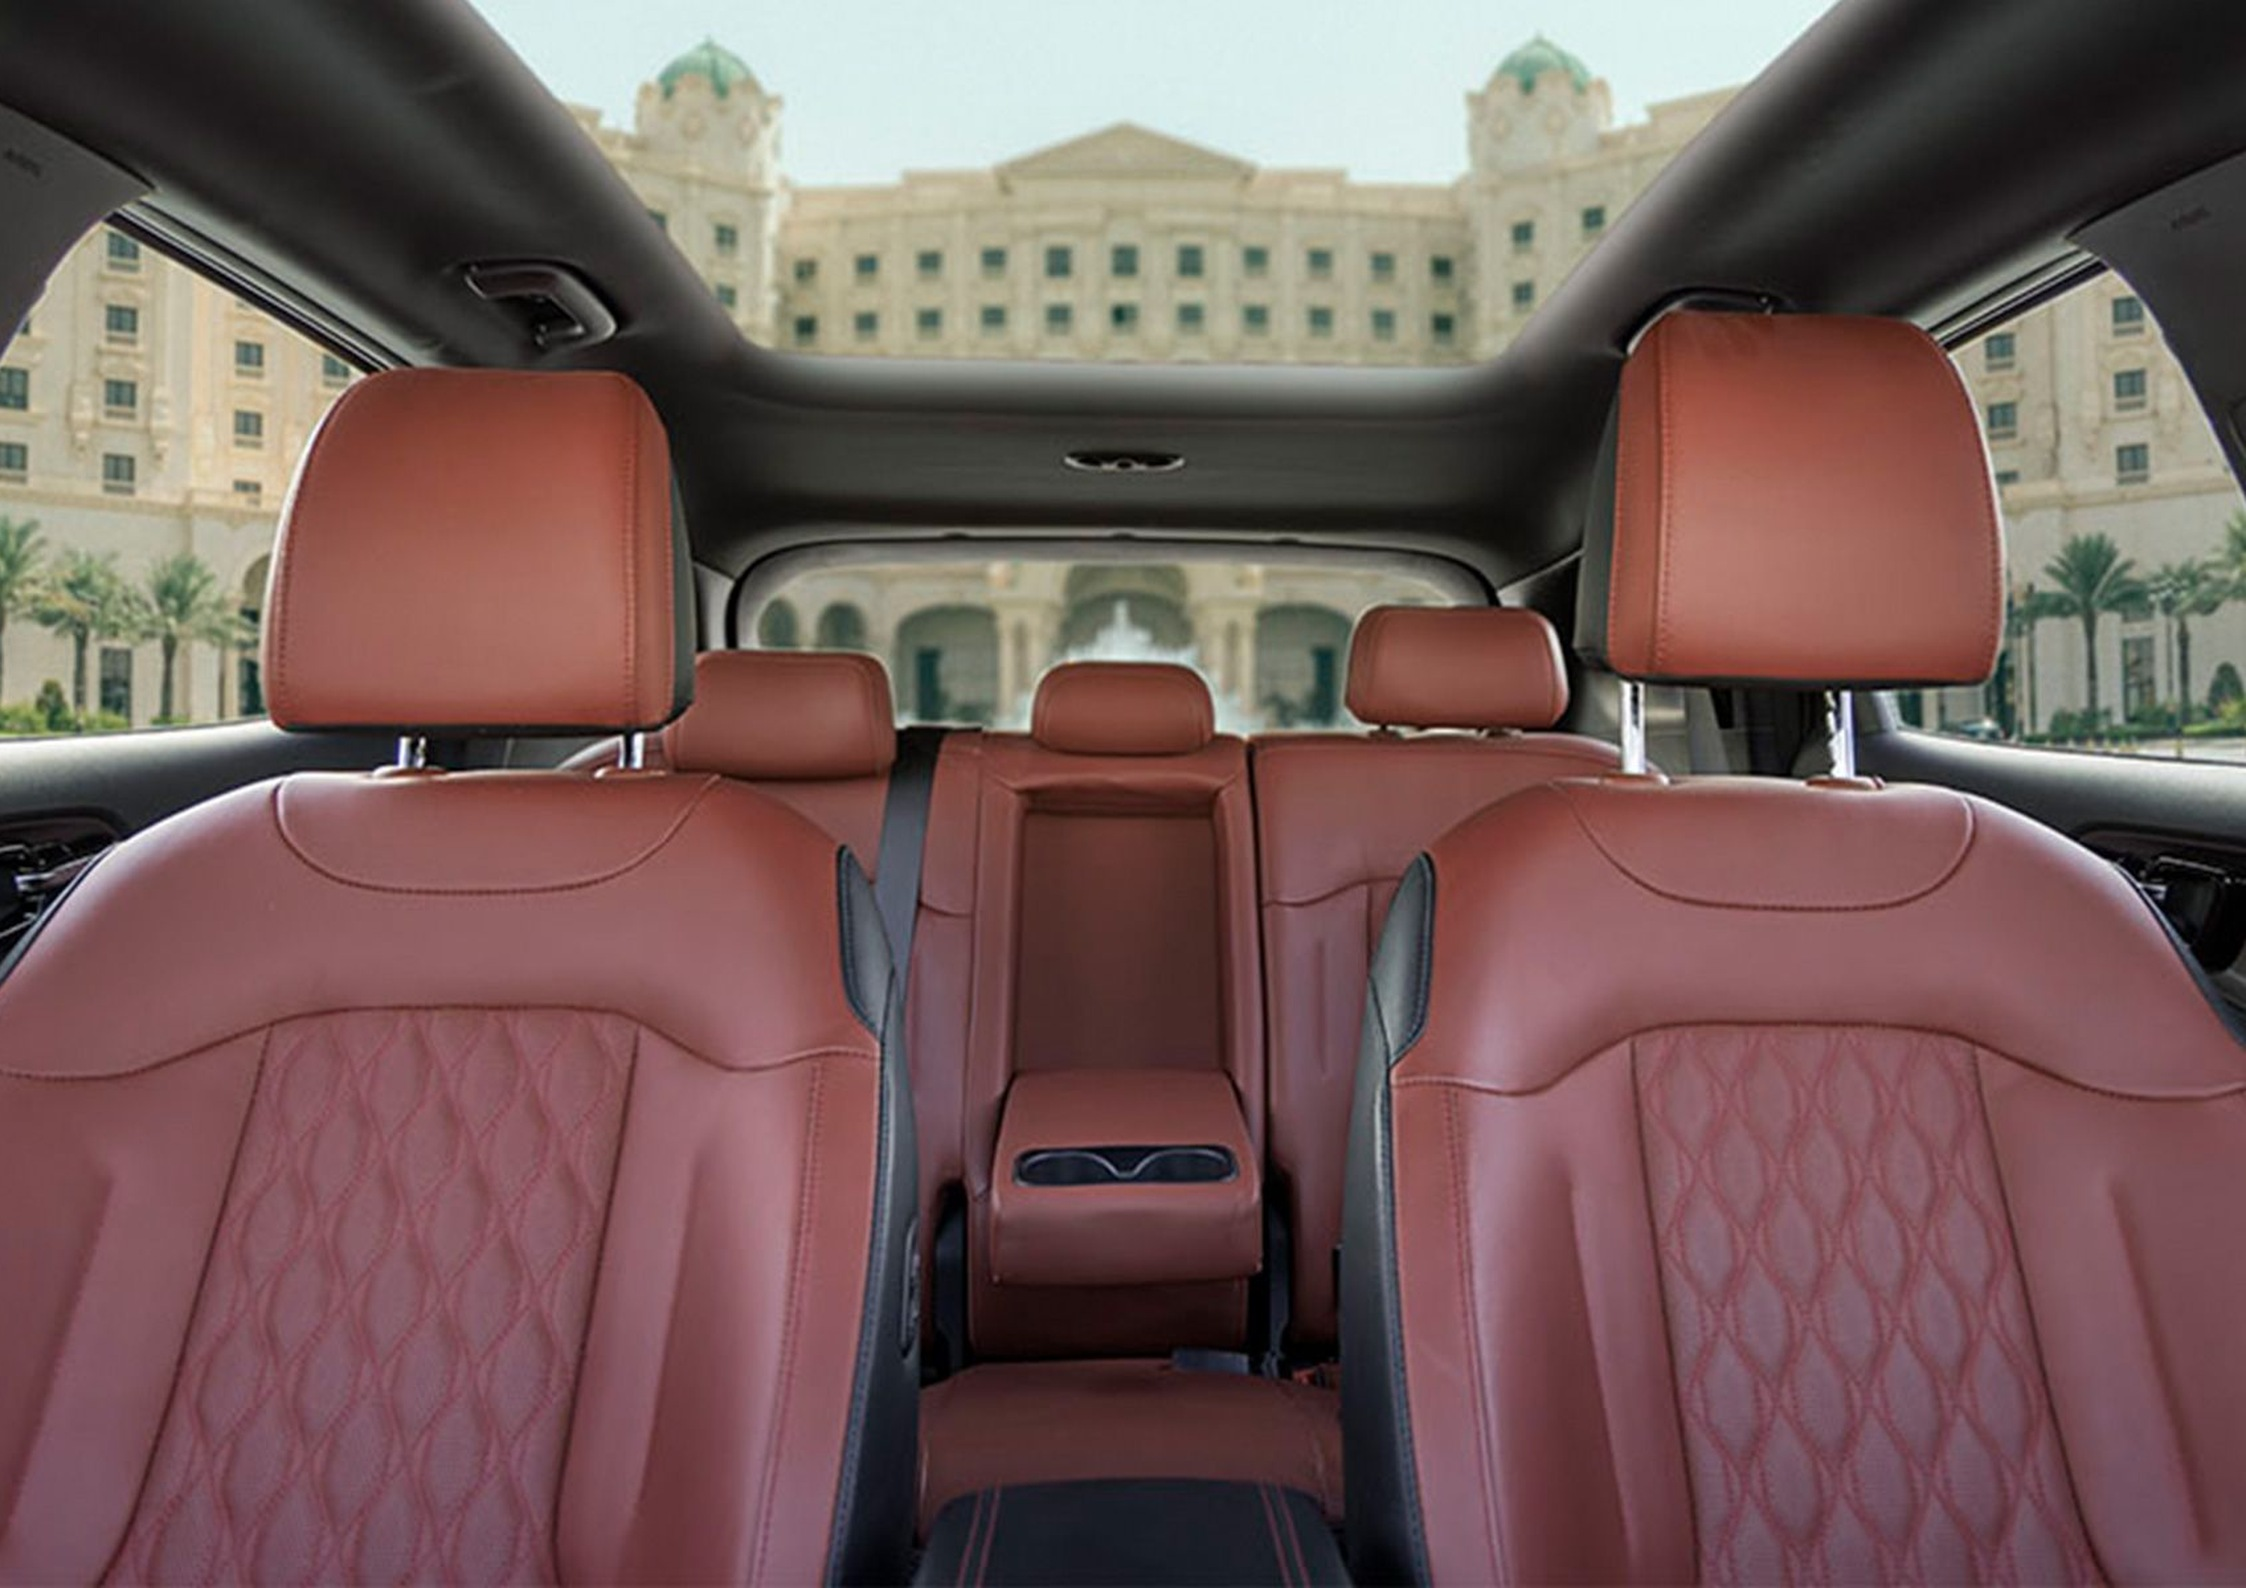
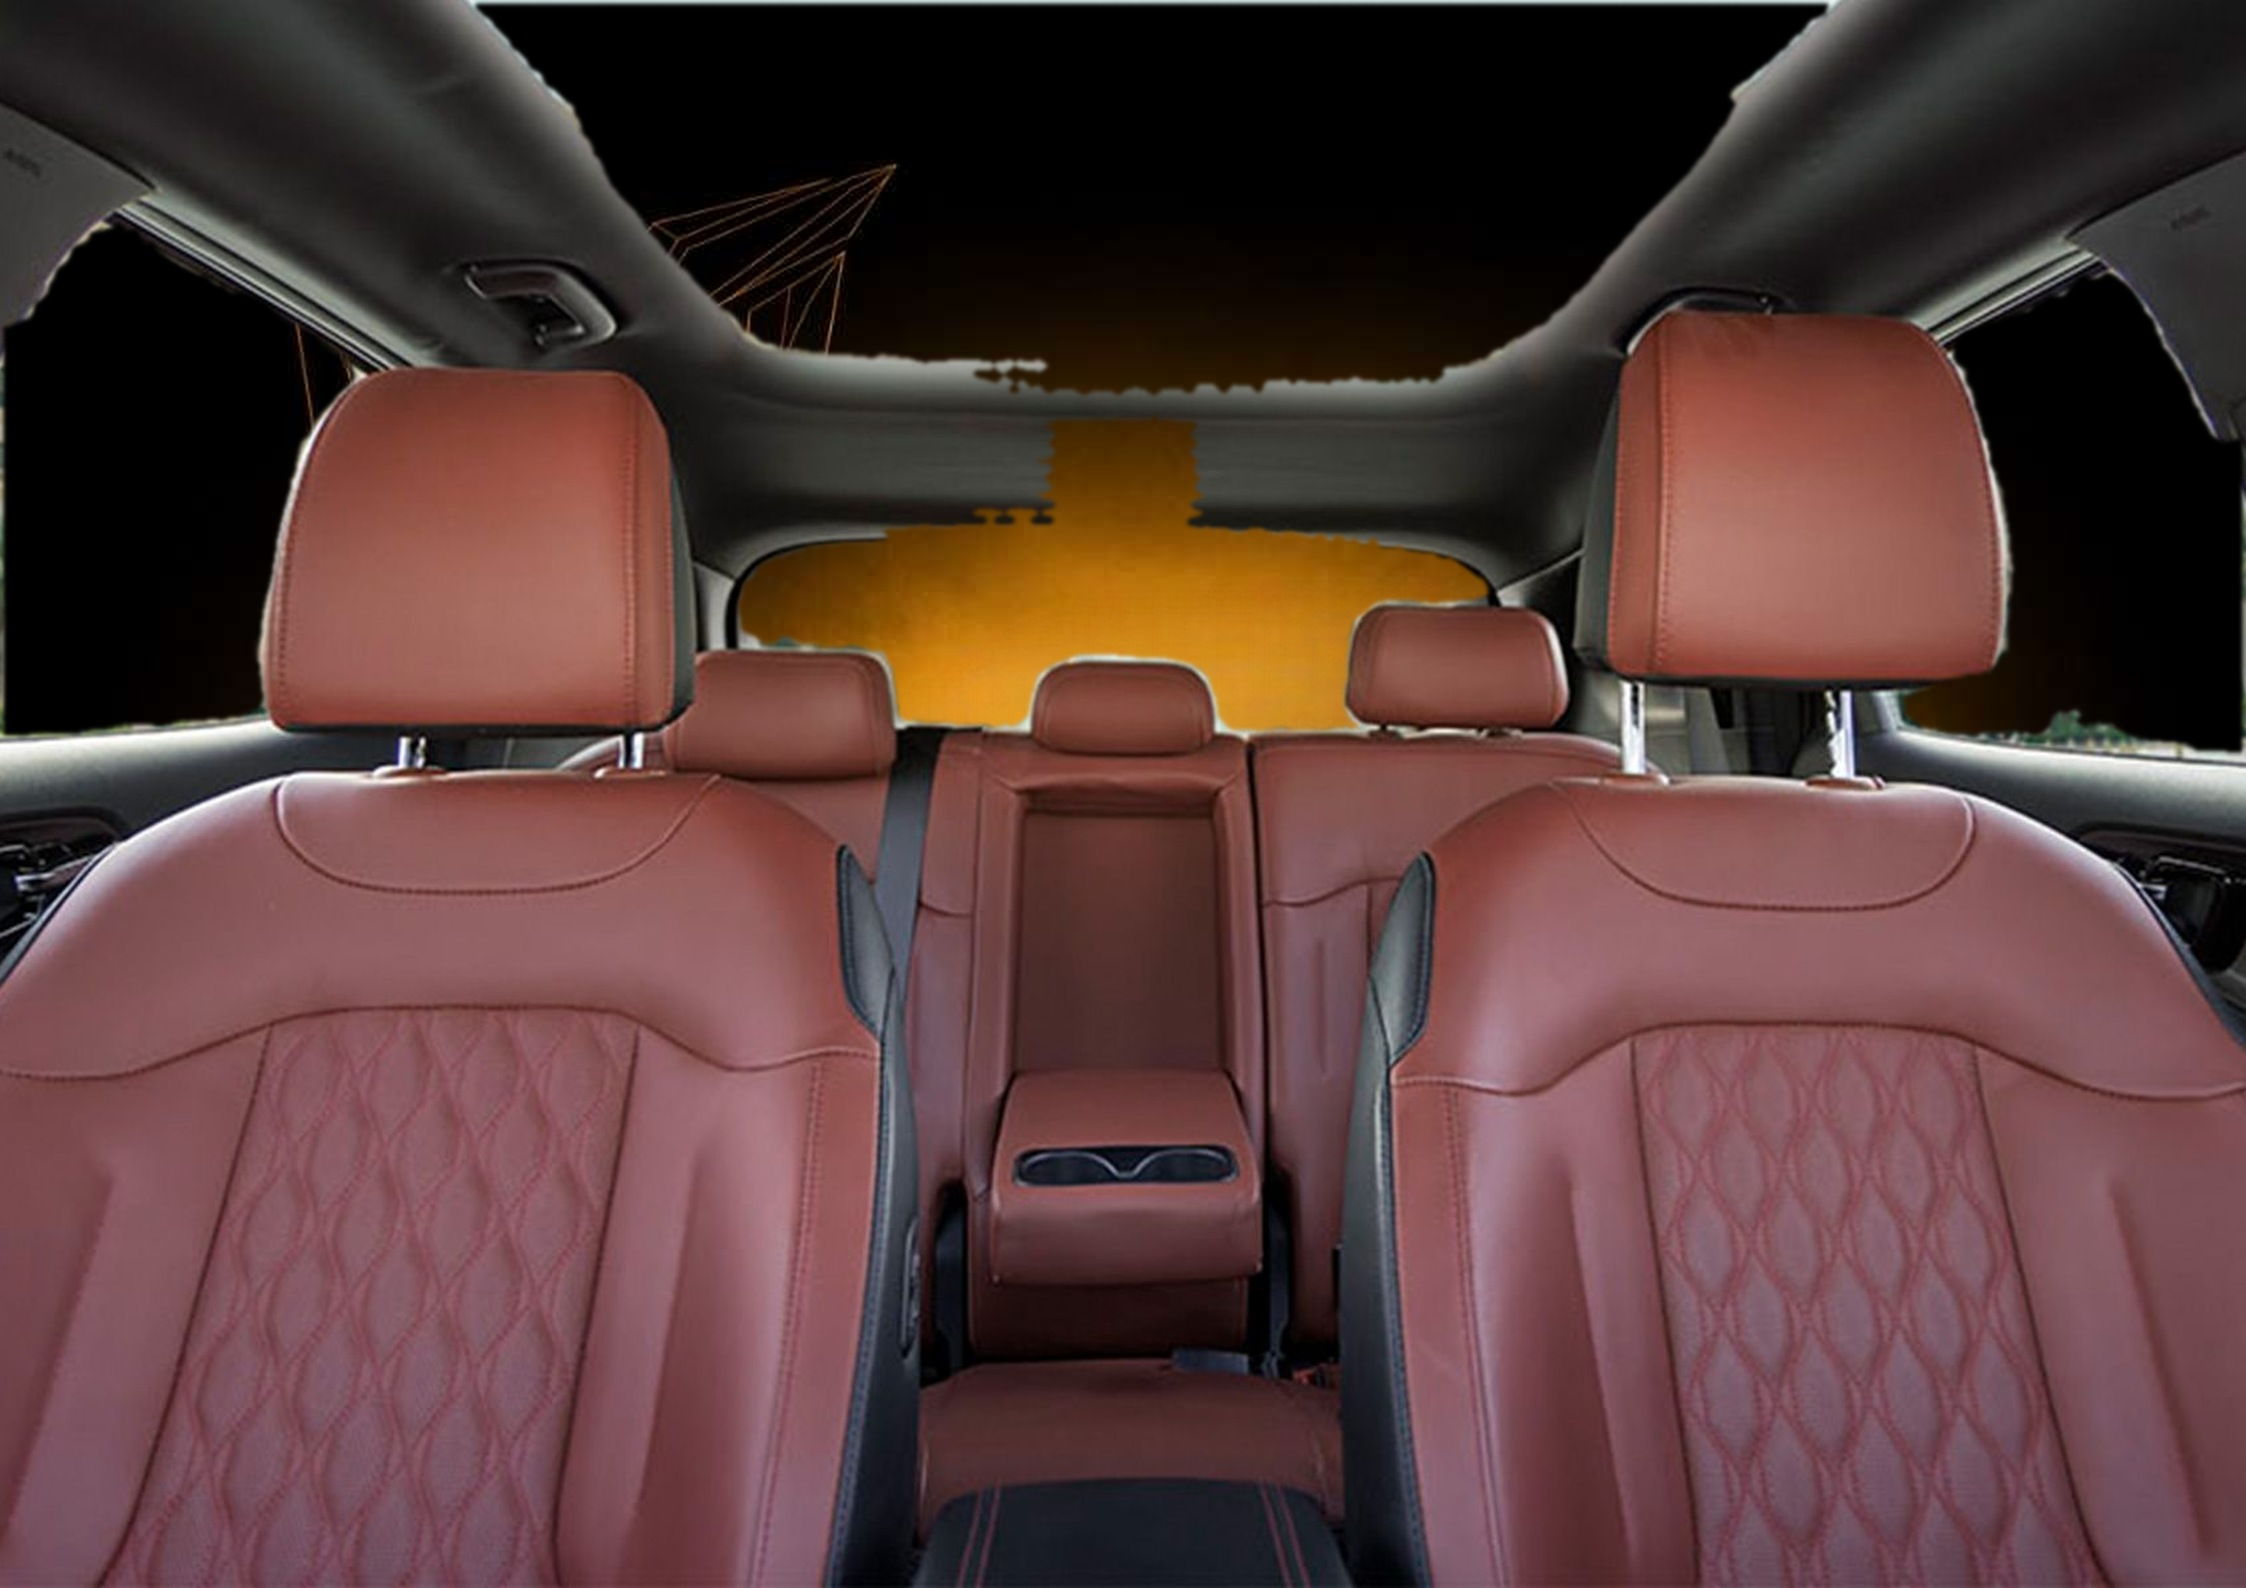
Site listings: studio-backdrop window swap on interiors (SegFormer+SAM), Max Motors plates, per-car admin data sheets for Kia Carnival/Sportage
Claude-Session: https://claude.ai/code/session_013TYQJG1dCkVjYNVz2U9GyP

Changed region(s): [[0.2182, 0.0, 0.8103, 0.4628], [0.8415, 0.1543, 1.0, 0.4937], [0.0, 0.1234, 0.1558, 0.4628]]

diff --git a/production/code/site_listing/win_mask.py b/production/code/site_listing/win_mask.py
@@ -1,0 +1,40 @@
+# window mask for a car-interior photo: SegFormer (ADE20K) finds the outside world, SAM snaps it to the glass shapes
+import numpy as np, torch, sys
+from PIL import Image
+from scipy import ndimage as nd
+from transformers import SegformerImageProcessor, SegformerForSemanticSegmentation, SamModel, SamProcessor
+SF = 'nvidia/segformer-b5-finetuned-ade-640-640'
+sp = SegformerImageProcessor.from_pretrained(SF); sm = SegformerForSemanticSegmentation.from_pretrained(SF).eval()
+OUT = {'windowpane','sky','tree','building','palm','mountain','skyscraper','house','plant','grass','road','sidewalk','earth','field','sand','fence','streetlight','pole','water','sea','hill','path','bridge','tower'}
+OUTID = [i for i, n in sm.config.id2label.items() if n in OUT]
+samp = SamProcessor.from_pretrained('facebook/sam-vit-base'); sam = SamModel.from_pretrained('facebook/sam-vit-base').eval()
+def coarse(im):
+    with torch.no_grad(): lo = sm(**sp(images=im, return_tensors='pt')).logits
+    seg = torch.nn.functional.interpolate(lo, size=im.size[::-1], mode='bilinear').argmax(1)[0].numpy()
+    return np.isin(seg, OUTID)
+def mask(im):
+    c = coarse(im); H, W = c.shape
+    lab, n = nd.label(nd.binary_opening(c, iterations=3))
+    out = np.zeros_like(c)
+    for i in range(1, n + 1):
+        comp = lab == i
+        if comp.sum() < H * W * 0.004: continue
+        d = nd.distance_transform_edt(comp); ys, xs = np.where(d > d.max() * 0.5)
+        sel = np.random.default_rng(i).choice(len(ys), min(4, len(ys)), replace=False)
+        pts = [[[float(xs[j]), float(ys[j])] for j in sel]]
+        inp = samp(im, input_points=[pts], return_tensors='pt')
+        with torch.no_grad(): o = sam(**inp, multimask_output=True)
+        ms = samp.image_processor.post_process_masks(o.pred_masks, inp['original_sizes'], inp['reshaped_input_sizes'])[0][0].numpy()
+        sc = o.iou_scores[0, 0].numpy()
+        # pick the SAM mask that best agrees with the coarse component without spilling far outside the coarse mask
+        best, bs = None, -1
+        for m, s in zip(ms, sc):
+            inter = (m & c).sum(); spill = (m & ~c).sum()
+            score = inter / (comp.sum() + 1) - 1.5 * spill / (m.sum() + 1) + 0.2 * s
+            if score > bs: bs, best = score, m
+        out |= best
+    return nd.binary_closing(out | c, iterations=2)
+if __name__ == '__main__':
+    for f in sys.argv[1:]:
+        im = Image.open(f).convert('RGB'); im.thumbnail((1280, 1280))
+        np.save('w_' + f.split('/')[-1] + '.npy', mask(im))

diff --git a/production/code/site_listing/interiors.py b/production/code/site_listing/interiors.py
@@ -1,0 +1,29 @@
+# batch: interior photos -> site frame (1123:794 crop) with the window view replaced by the studio backdrop
+# usage: python3 interiors.py OUT1.jpg=SRC1 OUT2.jpg=+SRC2 ...   (prefix SRC with + to swap the window view; close-ups stay as shot)
+import sys, os, numpy as np
+from PIL import Image, ImageFilter
+from scipy import ndimage as nd
+sys.path.insert(0, os.path.dirname(os.path.abspath(__file__)))
+import win_mask
+BG = Image.open(os.path.join(os.path.dirname(os.path.abspath(__file__)), 'backdrop.png')).convert('RGB')
+W, H = 2246, 1588
+def frame(im):
+    r = W / H
+    if im.width / im.height > r: nw = int(im.height * r); im = im.crop(((im.width - nw) // 2, 0, (im.width + nw) // 2, im.height))
+    else: nh = int(im.width / r); im = im.crop((0, (im.height - nh) // 2, im.width, (im.height + nh) // 2))
+    return im.resize((W, H), Image.LANCZOS)
+for job in sys.argv[1:]:
+    dst, src = job.split('=', 1); raw = not src.startswith('+'); src = src.lstrip('+')
+    im = frame(Image.open(src).convert('RGB'))
+    if not raw:
+        small = im.copy(); small.thumbnail((1280, 1280))
+        m = win_mask.mask(small)
+        m = nd.binary_fill_holes(m)
+        if m.mean() > 0.45: m[:] = False   # implausible: more than half the frame
+        lab, n = nd.label(m)
+        if n:
+            sizes = nd.sum(m, lab, range(1, n + 1)); m = np.isin(lab, [i + 1 for i, s in enumerate(sizes) if s > m.size * 0.002])
+        a = Image.fromarray((m * 255).astype(np.uint8)).resize((W, H), Image.BILINEAR).filter(ImageFilter.GaussianBlur(2))
+        bg = BG.resize((W, H), Image.LANCZOS)
+        im = Image.composite(bg, im, a)
+    im.save(dst, quality=93); print(dst, 'raw' if raw else 'win')

diff --git a/production/code/site_listing/make_car.py b/production/code/site_listing/make_car.py
@@ -6,6 +6,7 @@ HERE = os.path.dirname(os.path.abspath(__file__))
 out, name, items = sys.argv[1], sys.argv[2], sys.argv[3:]
 os.makedirs(out, exist_ok=True)
 W, H = 2246, 1588
+ints = []
 for k, it in enumerate(items, 1):
     kind, rest = it.split(':', 1)
     parts = rest.split('@'); src = parts[0]; scale = parts[1] if len(parts) > 1 and parts[1] else '0.70'
@@ -15,9 +16,8 @@ for k, it in enumerate(items, 1):
     dst = f'{out}/{name}_{k:02d}.jpg'
     if kind == 'ext':
         subprocess.run(['python3', f'{HERE}/listing.py', src, dst, scale], check=True, env=env, capture_output=True)
-    else:  # interior: centre-crop to the site's 1123:794 frame
-        im = Image.open(src).convert('RGB'); r = W / H
-        if im.width / im.height > r: nw = int(im.height * r); im = im.crop(((im.width - nw) // 2, 0, (im.width + nw) // 2, im.height))
-        else: nh = int(im.width / r); im = im.crop((0, (im.height - nh) // 2, im.width, (im.height + nh) // 2))
-        im.resize((W, H), Image.LANCZOS).save(dst, quality=93)
+    else:
+        ints.append(f'{dst}={src}')
     print(dst)
+if ints:  # interiors in one process so the segmentation models load once
+    subprocess.run(['python3', f'{HERE}/interiors.py', *ints], check=True)
